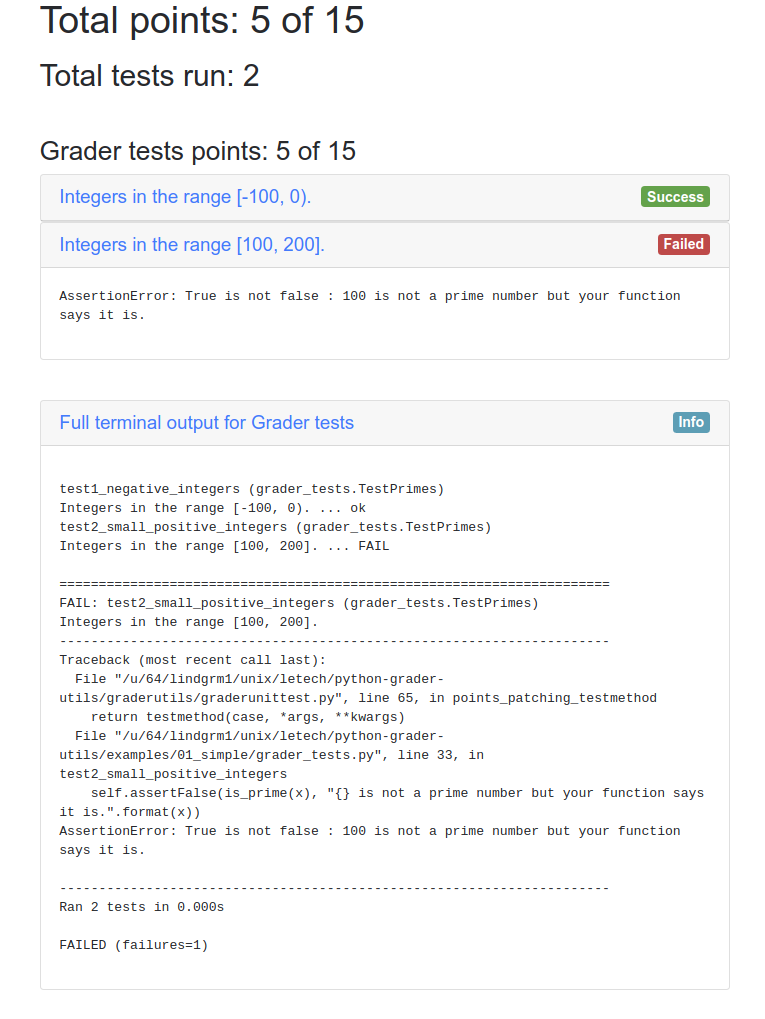
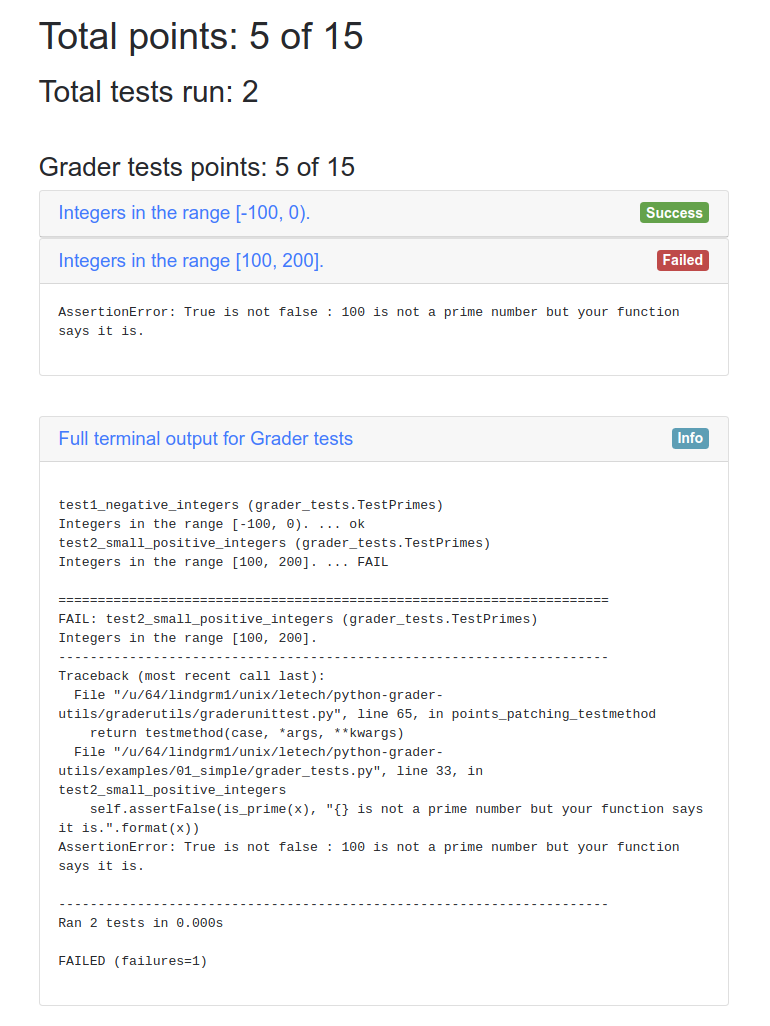
Add some top margin for the feedback body in base template

diff --git a/feedbackformat/templates/base.html b/feedbackformat/templates/base.html
@@ -9,7 +9,7 @@
     </head>
 
     <body>
-        <div class="container">
+        <div class="container feedback-body">
         {% block body %}
         {% endblock %}
         </div>

diff --git a/feedbackformat/templates/default.css b/feedbackformat/templates/default.css
@@ -1,3 +1,6 @@
+div.feedback-body {
+    margin-top: 15px;
+}
 /* Align all badges in grader result panels to the right side */
 span.feedback-badge {
     float: right;
